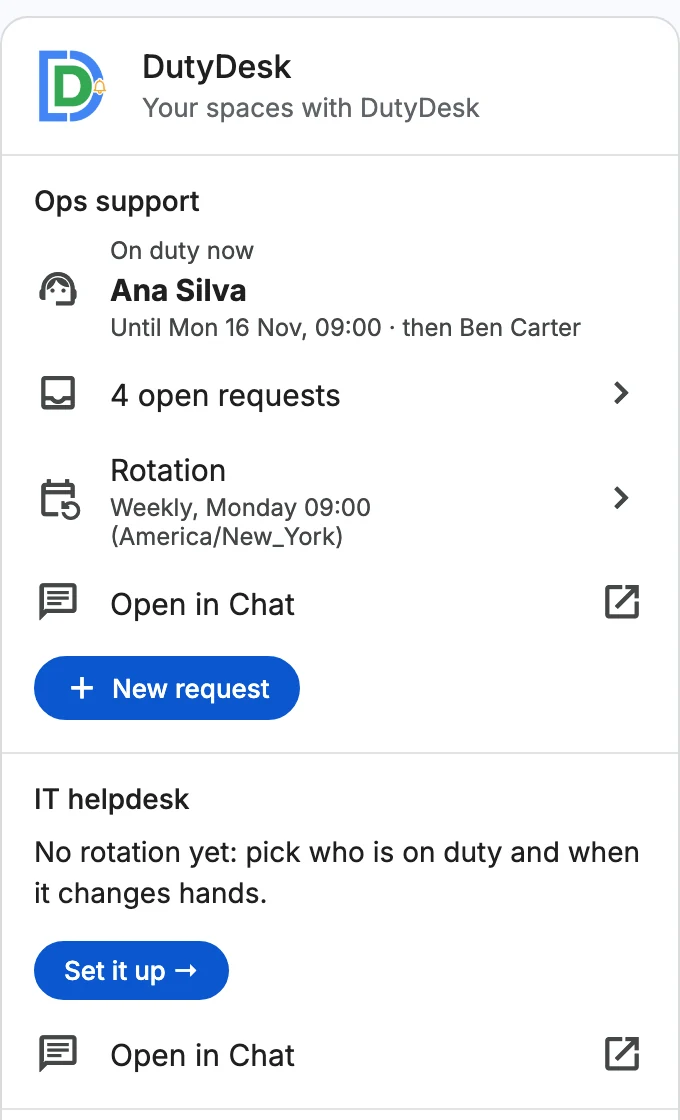
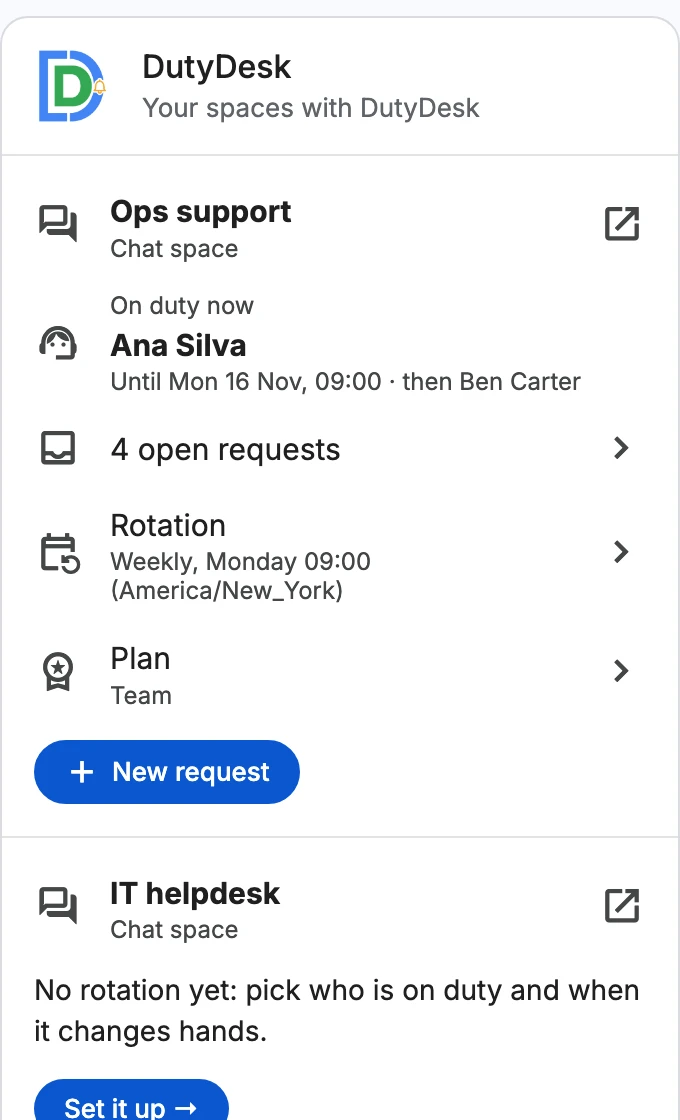
docs(dutydesk): side panel screenshot with the space name row futzslab/futzs-website@328d60f3d677001e332f1b4a8777538c90e954a7

diff --git a/help/dutydesk/index.html b/help/dutydesk/index.html
@@ -186,13 +186,13 @@ files.</p>
 <p><img alt="The DutyDesk side panel: who is on duty, open requests, rotation and New request" class="shot" src="/images/dutydesk/panel.webp" width="340" /></p>
 <p>For each Chat space with DutyDesk you are a member of:</p>
 <ul>
+<li><strong>The space name</strong>: click it to open the space in Chat.</li>
 <li><strong>Who is on duty</strong> now, until when, and who is next.</li>
 <li><strong>Open requests</strong>: the list, each one opening its thread in Chat.</li>
 <li><strong>Rotation</strong>: the same setup as <code>/dd_setup</code> (people, schedule,
   follow-up, language). Saving posts the handoff in the space.</li>
 <li><strong>New request</strong>: write it and send. DutyDesk posts it in the space and
   notifies the person on duty, as an @DutyDesk mention would.</li>
-<li><strong>Open in Chat</strong>.</li>
 </ul>
 <p>The side panel uses the language of your spaces. It comes with the next
 update of DutyDesk on the Google Workspace Marketplace: if you don&rsquo;t see the
